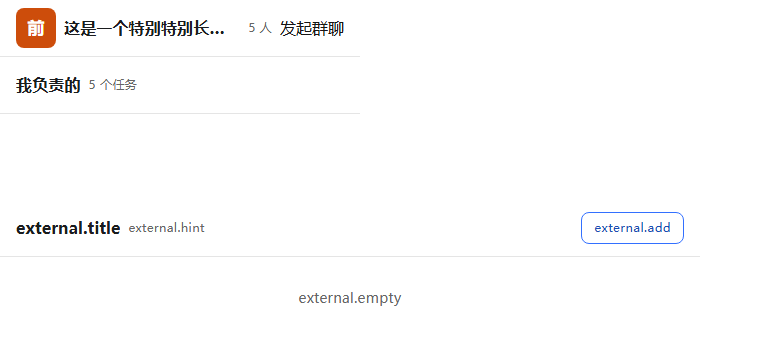
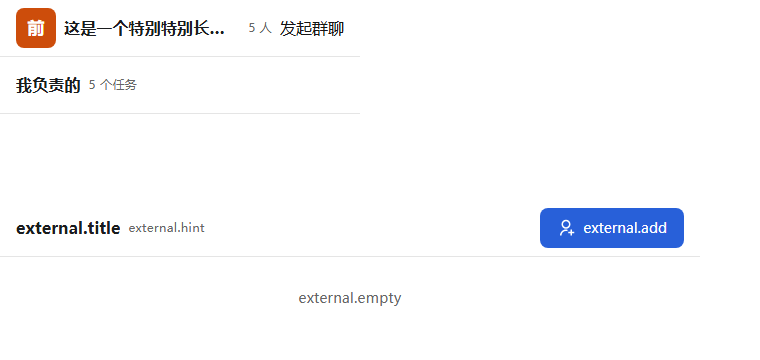
style(ui): align title bar buttons with the meeting module
以「会议」标题栏的动作按钮为基准(快速会议 / 加入会议 / 预约会议 / 录音 / 导入 /
搜索会议 AI):

- 主操作:primary + action 尺寸 + 18px 图标;
- 次操作:secondaryText + action 尺寸 + 18px 图标;
- 纯图标:icon32(工具行 / 齿轮这一档)。

改掉的不一致:
- 任务:「新建任务」补 18px 图标(原先是无图标的主操作);「找回清单」dense ->
  secondaryText action + RiInboxUnarchiveLine;
- 通讯录成员列表:「部门信息」dense -> secondaryText action + RiInformationLine;
  「添加」(星标视图主操作)secondary dense -> primary action + RiAddLine;
- 通讯录外部联系人:「添加外部联系人」secondary dense -> primary action +
  RiUserAddLine(这一页的主操作);
- 审批标题栏没有按钮;消息聊天栏的图标钮本来就是 icon32,未动。

一句话规则:标题栏里不再出现 dense;每页只有一个主操作(品牌蓝实底 + 18px 图标),
其余是文字按钮 + 18px 图标。

验证:
- check-title-bar.mjs 新增源码级检查:六个 TitleBar 调用点的 <TitleBar …> 区块里
  出现 size="dense" 就报错(任务/通讯录那几处正是这样漏出去的);
- 「外部联系人」那段真实浏览器检查再加三条:按钮高 40px、背景 rgb(40, 96, 217)
  (与「快速会议 / 录音」同一品牌蓝)、图标 18x18;
- vitest 162 文件 1043 条、lint / prettier / color / foundation / tsc / build 全绿;
  三个走查全绿。

Changed region(s): [[0.6961, 0.5806, 0.9079, 0.7028]]

diff --git a/src/frontend/src/features/contacts/routes/ContactsRoute.tsx b/src/frontend/src/features/contacts/routes/ContactsRoute.tsx
@@ -8,7 +8,7 @@ import {
   useQueryClient,
 } from '@tanstack/react-query'
 import { useLocation, useSearchParams } from 'wouter'
-import { RiArrowLeftLine } from '@remixicon/react'
+import { RiAddLine, RiArrowLeftLine, RiInformationLine } from '@remixicon/react'
 
 import { css, cx } from '@/styled-system/css'
 import { Button, SearchBox } from '@/primitives'
@@ -931,9 +931,12 @@ const ContactsAuthenticated = () => {
             >
               <div className={headerActionsCls}>
                 {narrowDetail && selectedDept && (
+                  // 标题栏按钮与「会议」模块同一套:次操作 secondaryText + action 尺寸
+                  // + 18px 图标(dense 那档在标题栏里比同排按钮小一号)。
                   <Button
-                    size="dense"
                     variant="secondaryText"
+                    size="action"
+                    icon={<RiInformationLine size={18} aria-hidden="true" />}
                     onPress={() => setDepartmentDetailsOpen(true)}
                     data-testid="contacts-department-info"
                   >
@@ -954,12 +957,12 @@ const ContactsAuthenticated = () => {
                   className={searchBoxCls}
                 />
                 {view === 'starred' && (
-                  // dense 而非 sm:sm 不带字号,会吃到浏览器默认 16px,比同页的
-                  //「发消息」大一号 —— 正是 buttonRecipe 里 dense 那档点名要收口的
-                  //「通讯录『添加』vs『发消息』」不一致。
+                  // 这一页的主操作:与「会议」的「快速会议 / 录音」同一档(primary +
+                  // action + 18px 图标),不再是比同排按钮小一号的 dense 次级按钮。
                   <Button
-                    variant="secondary"
-                    size="dense"
+                    variant="primary"
+                    size="action"
+                    icon={<RiAddLine size={18} aria-hidden="true" />}
                     onPress={() => setAddingStarred(true)}
                     data-testid="contacts-starred-add"
                   >

diff --git a/src/frontend/src/features/tasks/routes/TasksRoute.tsx b/src/frontend/src/features/tasks/routes/TasksRoute.tsx
@@ -3,9 +3,11 @@ import { createPortal } from 'react-dom'
 import { useLocation, useSearchParams } from 'wouter'
 import { useTranslation } from 'react-i18next'
 import {
+  RiAddLine,
   RiBarChartBoxLine,
   RiFilterOffLine,
   RiInbox2Line,
+  RiInboxUnarchiveLine,
   RiKanbanView2,
   RiListCheck3,
   RiRefreshLine,
@@ -622,10 +624,13 @@ const TasksAuthenticated = () => {
           }
         >
           <div className={headerActionsCss}>
+            {/* 标题栏按钮与「会议」模块同一套:次操作 secondaryText + action 尺寸 +
+                18px 图标(那边「加入会议 / 预约会议 / 导入」)。 */}
             {recoverableLists.length > 0 && (
               <Button
-                size="dense"
                 variant="secondaryText"
+                size="action"
+                icon={<RiInboxUnarchiveLine size={18} aria-hidden="true" />}
                 onPress={() => setRecoveringLists(true)}
               >
                 {t('taskLists.recover')}
@@ -640,9 +645,12 @@ const TasksAuthenticated = () => {
             >
               <RiSettings3Line size={19} aria-hidden="true" />
             </Button>
+            {/* 主操作与「会议」的「快速会议 / 录音」同一档:primary + action + 18px 图标。 */}
             <Button
               ref={newButtonRef}
+              variant="primary"
               size="action"
+              icon={<RiAddLine size={18} aria-hidden="true" />}
               isDisabled={Boolean(
                 selectedTaskList && !selectedTaskList.can_create_tasks
               )}

diff --git a/src/frontend/src/features/contacts/components/ExternalContactsPanel.tsx b/src/frontend/src/features/contacts/components/ExternalContactsPanel.tsx
@@ -1,6 +1,7 @@
 import { useRef, useState } from 'react'
 import { useQuery, useQueryClient } from '@tanstack/react-query'
 import { useTranslation } from 'react-i18next'
+import { RiUserAddLine } from '@remixicon/react'
 
 import { Button, SearchBox } from '@/primitives'
 import { Modal, ModalCloseButton } from '@/components/Modal'
@@ -80,9 +81,11 @@ export const ExternalContactsPanel = ({ onMessage }: Props) => {
       {/* 内容标题栏走共享件(与通讯录成员列表 / 我的群组同一形态):标题 + 备注
           (一句话说明)一行、不换行;添加按钮留在右侧动作位。 */}
       <TitleBar title={t('external.title')} meta={t('external.hint')}>
+        {/* 这一页的主操作:与「会议」的「快速会议 / 录音」同一档。 */}
         <Button
-          variant="secondary"
-          size="dense"
+          variant="primary"
+          size="action"
+          icon={<RiUserAddLine size={18} aria-hidden="true" />}
           onPress={() => setAdding(true)}
           data-testid="external-contact-add"
         >

diff --git a/CHANGELOG.md b/CHANGELOG.md
@@ -143,6 +143,8 @@ and this project adheres to
   of breathing room again
 - 🎨(frontend) bring the contacts groups and external contacts panels onto that
   shared title bar as well
+- 🎨(frontend) align every title bar button with the meeting module's two
+  styles: a filled primary with an icon, or a text button with one
 
 ### Fixed
 
